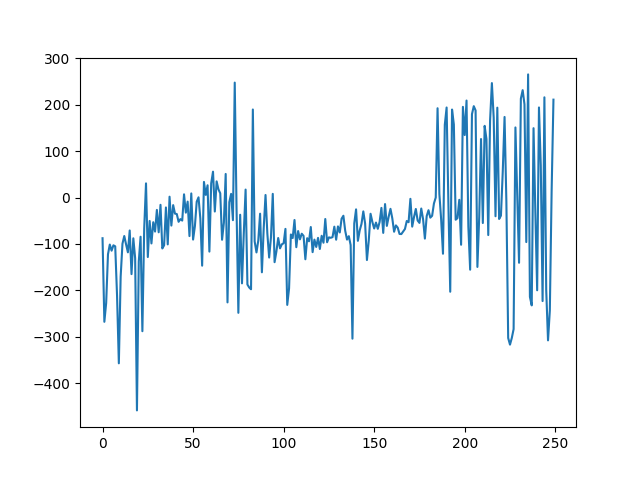
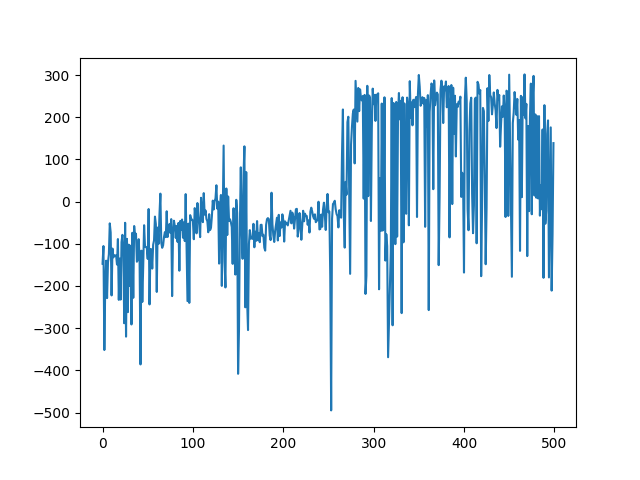
deep q learning with fixed target

diff --git a/deep_learning/deep_q_learning_with_target.py b/deep_learning/deep_q_learning_with_target.py
@@ -1,0 +1,154 @@
+import torch as T
+import torch.nn as nn
+import torch.nn.functional as F
+import torch.optim as optim
+import numpy as np
+import matplotlib.pyplot as plt
+import gym
+
+class DeepQNetwork(nn.Module):
+    def __init__(self, lr, input_dims, fc1_dims, fc2_dims, n_actions):
+        super(DeepQNetwork, self).__init__()
+
+        if T.cuda.is_available() == False:
+            raise Exception('no cuda')
+
+        self.input_dims = input_dims
+        self.fc1_dims = fc1_dims
+        self.fc2_dims = fc2_dims
+        self.n_actions = n_actions
+
+        self.fc1 = nn.Linear(*self.input_dims, self.fc1_dims)
+        self.fc2 = nn.Linear(self.fc1_dims, self.fc2_dims)
+        self.fc3 = nn.Linear(self.fc2_dims, self.n_actions)
+
+        self.optimizer = optim.Adam(self.parameters(), lr=lr)
+        self.loss = nn.MSELoss()
+        self.device = T.device('cuda:0')
+        self.to(self.device)
+
+    def forward(self, state):
+        x = F.relu(self.fc1(state))
+        x = F.relu(self.fc2(x))
+        actions = self.fc3(x)
+        return actions
+
+
+class Agent(object):
+    def __init__(self, gamma, epsilon, lr, input_dims, batch_size, n_actions, max_mem_size=100000,
+                 eps_min=0.01, eps_dec=0.996, target_iteration=200):
+        self.gamma = gamma
+        self.epsilon = epsilon
+        self.eps_min = eps_min
+        self.eps_dec = eps_dec
+        self.batch_size = batch_size
+        self.n_actions = n_actions
+        self.action_space = [i for i in range(n_actions)]
+        self.mem_size = max_mem_size
+        self.mem_cntr = 0
+        self.target_iteration = target_iteration
+        self.target_iteration_cntr = 0
+
+        self.Q_eval = DeepQNetwork(lr, n_actions=self.n_actions, input_dims=input_dims, fc1_dims=256, fc2_dims=256)
+        self.Q_target = DeepQNetwork(lr, n_actions=self.n_actions, input_dims=input_dims, fc1_dims=256, fc2_dims=256)
+
+        self.state_memory = np.zeros((self.mem_size, *input_dims), dtype=np.float32)
+        self.new_state_memory = np.zeros((self.mem_size, *input_dims), dtype=np.float32)
+        self.action_memory = np.zeros(self.mem_size, dtype=np.int32)
+        self.reward_memory = np.zeros(self.mem_size, dtype=np.float32)
+        self.terminal_memory = np.zeros(self.mem_size, dtype=np.bool)
+
+    def store_transition(self, state, action, reward, state_, terminal):
+        index = self.mem_cntr % self.mem_size
+        self.state_memory[index] = state
+        self.action_memory[index] = action
+        self.reward_memory[index] = reward
+        self.terminal_memory[index] = terminal
+        self.new_state_memory[index] = state_
+        self.mem_cntr += 1
+
+    def choose_action(self, observation):
+        rand = np.random.random()
+        if rand < self.epsilon:
+            action = np.random.choice(self.action_space)
+        else:
+            state = T.tensor([observation]).to(self.Q_eval.device)
+            actions = self.Q_eval.forward(state)
+            action = T.argmax(actions).item()
+        return action
+
+    def learn(self):
+        if self.mem_cntr > self.batch_size:
+            self.Q_eval.optimizer.zero_grad()
+
+            if self.target_iteration_cntr % self.target_iteration == 0:
+                self.Q_target.load_state_dict(self.Q_eval.state_dict())
+            self.target_iteration_cntr += 1
+
+            max_mem = min(self.mem_size, self.mem_cntr)
+            batch = np.random.choice(max_mem, self.batch_size, replace=False)
+            batch_index = np.arange(self.batch_size, dtype=np.int32)
+
+            state_batch = T.tensor(self.state_memory[batch]).to(self.Q_eval.device)
+            reward_batch = T.tensor(self.reward_memory[batch]).to(self.Q_eval.device)
+            terminal_batch = T.tensor(self.terminal_memory[batch]).to(self.Q_eval.device)
+            new_state_batch = T.tensor(self.new_state_memory[batch]).to(self.Q_eval.device)
+            action_batch = self.action_memory[batch]
+
+            q_eval = self.Q_eval.forward(state_batch)[batch_index, action_batch]
+            q_next = self.Q_target.forward(new_state_batch)
+            q_next[terminal_batch] = 0.0
+
+            q_target = reward_batch + self.gamma * T.max(q_next, dim=1)[0]
+
+            loss = self.Q_eval.loss(q_target, q_eval).to(self.Q_eval.device)
+            loss.backward()
+            self.Q_eval.optimizer.step()
+
+            self.epsilon = self.epsilon - self.eps_dec
+            self.epsilon = max(self.epsilon, self.eps_min)
+
+
+if __name__ == '__main__':
+    env = gym.make('LunarLander-v2')
+    brain = Agent(gamma=0.99, epsilon=1.0, batch_size=64, n_actions=4, input_dims=[8], lr=0.001, eps_dec=0.00003)
+
+    scores = []
+    eps_history = []
+    n_games = 500
+    score = 0
+
+    for i in range(n_games):
+        if i%10 == 0 and i > 0:
+            avg_score = np.mean(scores[max(0, i-10):(i+1)])
+            print('episode', i, 'average score {}'.format(avg_score), 'epsilon {}'.format(brain.epsilon))
+        else:
+            print('episode', i, 'score', score)
+
+        score = 0
+        eps_history.append(brain.epsilon)
+        observation = env.reset()
+        done = False
+        while not done:
+            action = brain.choose_action(observation)
+            observation_, reward, done, info = env.step(action)
+            score += reward
+            brain.store_transition(observation, action, reward, observation_, done)
+            brain.learn()
+            observation = observation_
+        scores.append(score)
+
+    plt.plot(scores)
+    plt.savefig('deep_q_learning_with_target.png')
+
+    # play the game a few time
+    for i in range(10):
+        observation = env.reset()
+        done = False
+        while not done:
+            action = brain.choose_action(observation)
+            observation_, reward, done, info = env.step(action)
+            observation = observation_
+
+            env.render()
+        scores.append(score)
